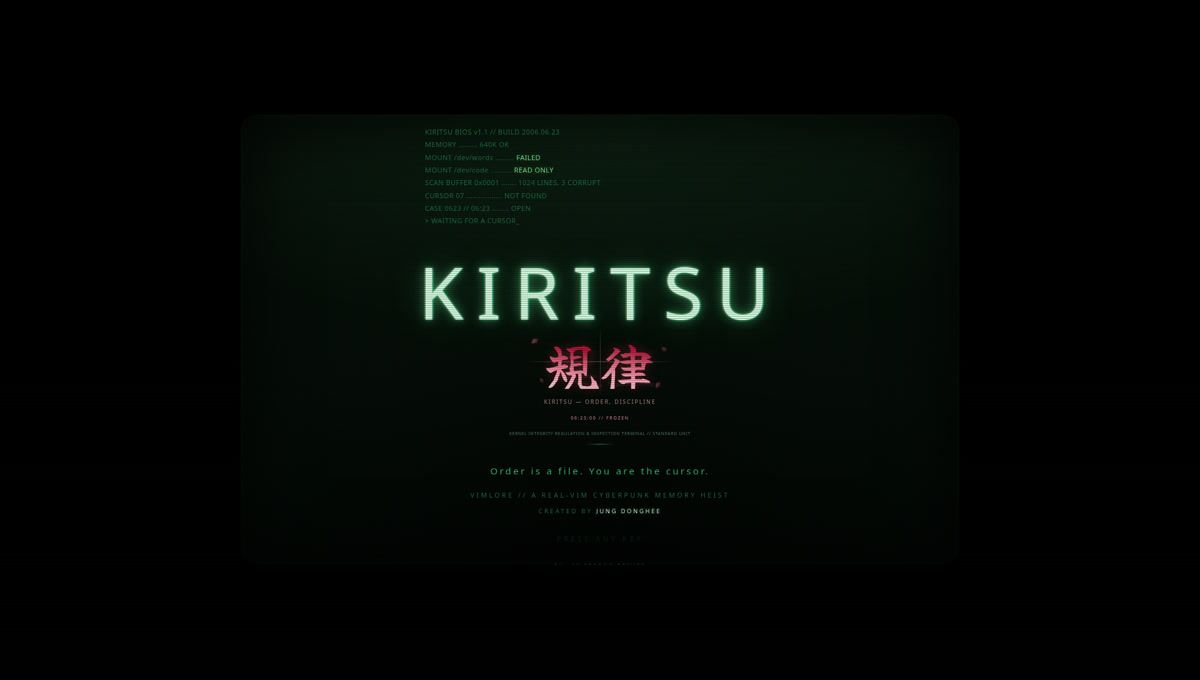
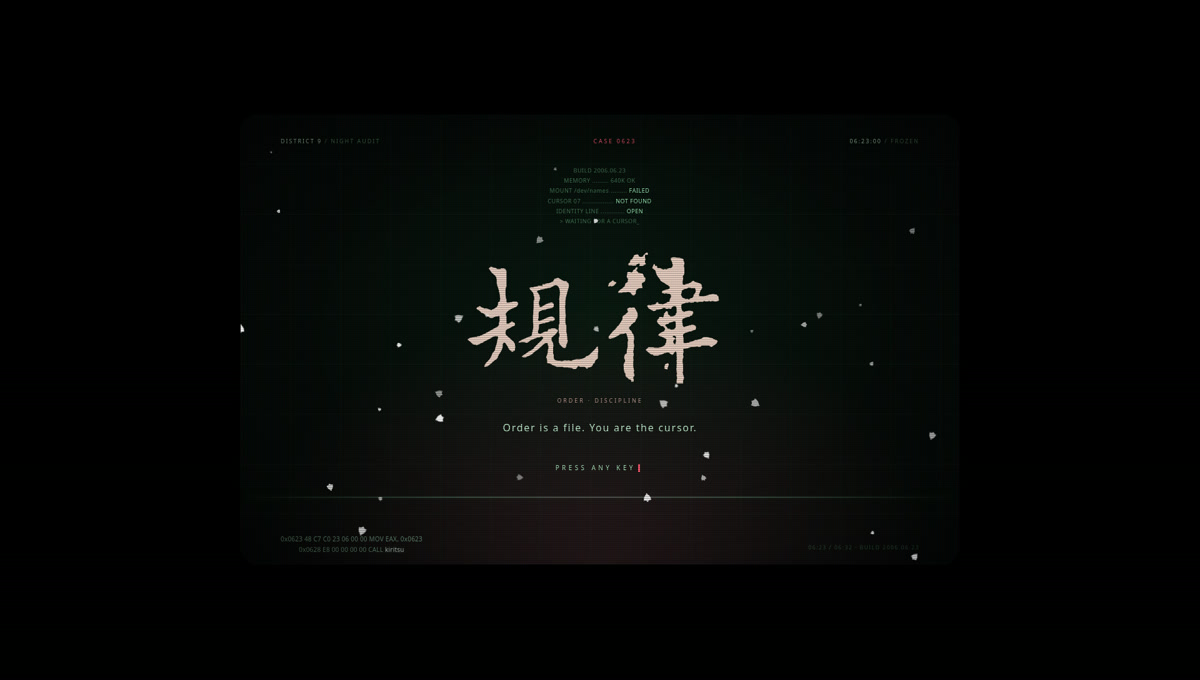
chore(release): self-contained single-file title, final social assets, 420k measured gate

diff --git a/tools/bundle-budget.ts b/tools/bundle-budget.ts
@@ -3,9 +3,10 @@
  * this ceiling is the line that fails CI: future features must pay for
  * themselves or the budget must be raised deliberately in the same commit.
  *
- * Raised to 320,000 raw / 100,000 gzip on 2026-11-13 for the KIRITSU rebrand:
- * inline Yuji Boku 規律 + ghost 起立 outlines, title copy, seal icon plumbing and
- * the story-first slices. Measured 293,206 raw / 94,115 gzip at the raise.
+ * Raised to 420,000 raw / 140,000 gzip on 2026-11-13 for the single-file title:
+ * dist/vimlore.html now inlines the balanced Ouyang 規律 SVG as a data URI so
+ * the downloadable file opens with no sibling assets. Measured 402,705 raw /
+ * 132,489 gzip at the raise. The JS/CSS page remains ~292 kB raw / ~89 kB gzip.
  *
  * MAX_RAW is the deterministic hard gate. MAX_GZIP carries a measured ~1 kB
  * allowance because the same dist compresses differently across zlib builds:
@@ -15,8 +16,8 @@
 import { readFileSync } from 'node:fs';
 import { gzipSync } from 'node:zlib';
 
-export const MAX_RAW = 320_000;
-export const MAX_GZIP = 100_000;
+export const MAX_RAW = 420_000;
+export const MAX_GZIP = 140_000;
 const file = new URL('../dist/vimlore.html', import.meta.url);
 const buf = readFileSync(file);
 const gz = gzipSync(buf, { level: 9 }).length;

diff --git a/docs/REPO_PRESENTATION.md b/docs/REPO_PRESENTATION.md
@@ -1,70 +1,40 @@
 # GitHub presentation audit — 2026-11-13
 
-This is the exhaustive checklist for the repository's public "About", images,
-README and Pages metadata. Update it whenever the public face changes.
-
-## Current GitHub About (set through the REST API)
+## Current GitHub About
 
 | field | current value |
 |---|---|
-| name | `vimlore` |
-| description | A CRT Vim adventure with a real, diff-tested Vim engine. 51 stages citing Drew Neil's Practical Vim, 88 commands, free/offline PWA. In development: coverage and gaps documented. |
+| name | `vimlore` (repository URL; game is KIRITSU) |
+| description | KIRITSU — 規律: a real-Vim cyberpunk bureaucratic noir. Kanji-first CRT title, 51 stages, diff-tested Vim engine, free offline PWA. In development. |
 | homepage | <https://jungdonghee.github.io/vimlore/> |
-| topics | `vim`, `neovim`, `vim-adventures`, `vim-tutorial`, `vim-golf`, `game`, `browser-game`, `pwa`, `offline`, `education`, `typescript`, `terminal`, `crt`, `text-editor`, `learning-game`, `ascii-art` |
+| topics | `kiritsu`, `vim`, `neovim`, `vim-adventures`, `browser-game`, `pwa`, `offline`, `cyberpunk`, `crt`, `vector-graphics`, `ouyang-xun`, `terminal`, `typescript`, `game` |
 | license | MIT |
-| visibility | public |
 | Pages | enabled, GitHub Actions deployment |
 
-## Images and social cards
+## Assets
 
-| asset | role | current state |
-|---|---|---|
-| `public/icons/icon-512.png` | project mark, `any` icon | large **V formed from terminal commands**; vector master `public/icons/icon.svg` |
-| `public/icons/icon-maskable-512.png` | maskable PWA icon | padded version of the same mark |
-| `public/icons/favicon.svg`, `favicon-32.png`, `favicon-16.png` | browser tab icon | reduced V/command mark |
-| `docs/hero.jpg` (1200×680) | README hero | current landscape dashboard, regenerated from `docs/browser/pwa/landscape-title.png` |
-| `docs/social-preview.png` (1280×640) | GitHub social preview | current landscape title; upload manually (see below) |
-| `public/social-preview.png` | Open Graph/Twitter card on Pages | referenced by absolute OG meta in `index.html` |
-| `docs/browser/pwa/landscape-title.png` | README landscape screenshot | current title, bootlog/footer rails, exact center |
-| `docs/browser/pwa/portrait-gate.png` | README portrait gate | current LANDSCAPE REQUIRED gate |
-| `docs/browser/*.jpg`, `docs/browser/audit/*` | QA evidence | regenerated 2026-11-13; 50-screen audit green |
+| asset | current state |
+|---|---|
+| `public/icons/icon-512.png` | red hanko seal with 規律, chamfered hacker frame |
+| `public/icons/favicon*.png/svg` | K seal, legible at 16 px |
+| `docs/hero.jpg` | final kanji-first title screen, 1200×680 |
+| `docs/social-preview.png` | final title crop, 1280×640 |
+| `public/social-preview.png` | same card, served for OG/Twitter |
+| `docs/story/title-screen-final.png` | live title capture |
+| `docs/story/title-intro.webm` | recorded boot/typing/laser/flash intro |
+| `docs/browser/pwa/*` | PWA landscape, portrait gate, offline screenshots |
 
-### What cannot be changed through the API
+Social preview and avatar are GitHub web-UI only; upload
+`docs/social-preview.png` and `public/icons/icon-512.png` manually.
 
-GitHub **social preview** and **repository avatar/icon** are web-UI-only. The
-REST/GraphQL API does not expose them; see the community discussion
-<https://github.com/orgs/community/discussions/197020>. The assets are ready:
+## Current live
 
-- Social preview: upload `docs/social-preview.png` in
-  **Settings → General → Social preview**.
-- Avatar: upload `public/icons/icon-512.png` in **Settings → General → Avatar**.
-- README hero and in-page OG image are already wired; no manual action for them.
+<https://jungdonghee.github.io/vimlore/>
 
-## README and Pages
+## Update checklist
 
-- README hero uses the current landscape dashboard, not the old play-field JPEG.
-- The "Current state" block gives the honest percentages and debt links.
-- OG/Twitter tags are in the `pwa:start…pwa:end` block; they are stripped from
-  the self-contained `dist/vimlore.html` but served on the hosted site.
-- `public/social-preview.png` is served at
-  `https://jungdonghee.github.io/vimlore/social-preview.png` for the OG tags.
-- All README relative links and images resolve (`doc-check` + link audit).
-
-## CI / Pages / tags
-
-- `ci` and `pages` workflows are green for the current HEAD.
-- Tags exist for the 2026-11-12 sprint:
-  `sprint-2026-11-12`, `sprint-2026-11-12-freeze`, `sprint-2026-11-12-final`.
-  The public-presentation milestone is tagged `pwa-landscape-2026-11-13`.
-- No formal semver release yet; don't invent one just to decorate the repo.
-
-## Update checklist (when anything public changes)
-
-1. Regenerate `docs/browser/pwa/landscape-title.png` via `npm run pwa:qa`.
-2. Regenerate `docs/hero.jpg` and `docs/social-preview.png` from it (ffmpeg
-   scale/pad; keep 1200×680 and 1280×640).
-3. Copy social card to `public/social-preview.png`.
-4. Run `npm run doc-check && npm run budget && npm run pwa:check`.
-5. Update `README.md` metrics/status and this file's date.
-6. Push; verify CI + Pages; fetch the live OG image and Page HTTP 200.
-7. Manually re-upload social preview/avatar only if their visual changed.
+1. `npm run pwa:qa` for the landscape screenshot.
+2. Regenerate hero/social from a fresh 1920×1080 title capture.
+3. Copy social to `public/`.
+4. `npm run presentation:check && npm run doc-check && npm run budget`.
+5. Push; verify CI + Pages and the live title.

diff --git a/docs/DESIGN.md b/docs/DESIGN.md
@@ -1,61 +1,50 @@
-# KIRITSU — design notes
+# KIRITSU — design notes (final title)
 
-## The mark
+## Rule
 
-**KIRITSU** is the game; **VIMLORE** is the world/series. The identity is a
-**red hanko seal** carrying the sharp, hand-brushed **規律** in cream, framed by
-a thin CRT bezel and phosphor grid. No generic robot, no neon gradient, no
-stock "hacker" decoration.
+**Kanji is the name.** `規律` is the only masthead. `kiritsu` is a code
+identifier in the boot strip, not a corner label. Russian lettering was removed:
+it did not belong to the CRT vector language.
 
-- Kanji: **規律** (order, discipline / *kiritsu*), drawn from **Yuji Boku**
-  brush-regular outlines. The same sound **起立** (*kiritsu*, standing up) is
-  reserved for the hidden ending. The outline is vector, not a font dependency.
-- Seal: oxidized vermilion, slightly displaced edge; the red is the Bureau's
-  correction ink, not decoration.
-- Frame: 2px green rule, four square corners, low-opacity vector grid.
-- Cursor: a pale block at the seal's foot; the player is the cursor.
-- Microtext: `KIRITSU // 2091`.
+## Title
 
-The favicon is a reduced **K** seal: it survives 16px downscaling, while the
-full mark carries the kanji at 192/512 and on the title screen.
+- **Ouyang Xun brush**: real Ouyang-style scans of 規/律, cleaned, vectorised,
+  then normalised into equal cells so the pair reads as one word. No red seal
+  box, no hanko frame, no duplicate colour per glyph.
+- **Laser write**: bootlog types; a red beam crosses; the brush ink is revealed
+  behind it with stepped clipping; one flash; caption and press rise.
+- **CRT vector display**: 80 px phosphor grid, scanlines, a slow beam sweep,
+  monospace telemetry, phosphor green text, case/redaction accents.
+- **Sakura**: petals only. The organic branch was removed because its curves
+  fought the vector display.
+- **Code-native name**: `CALL kiritsu` in the bottom assembly strip. The code
+  is part of the design, not decoration in a corner.
+- **Numbers**: `2006.06.23`, `CASE 0623`, `06:23`, `MOV EAX, 0x0623`.
+- **Layout**: original VIMLORE vertical axis — bootlog, kanji, caption,
+  tagline, press; metadata rails at top and bottom.
 
-## Title screen
+## Colours
 
-`KIRITSU` wordmark, red **規律**, then:
+| token | use |
+|---|---|
+| `#050b08` | CRT black |
+| `#a9ffc5` / `#c9ffda` | phosphor / telemetry |
+| `#f2d8c9` | Ouyang ink |
+| `#ff5a72` | laser, case, open line |
+| sakura `#ff9fba` → `#ffe0e8` | falling petals |
 
-> KIRITSU — ORDER, DISCIPLINE  
-> ORDER IS A FILE. YOU ARE THE CURSOR.  
-> VIMLORE // A REAL-VIM CYBERPUNK MEMORY HEIST
+## Responsive
 
-The boot log carries the in-world numbers **2006.06.23** and
-**CASE 0623 // 06:23**. They are not random decoration: they are the build,
-the frozen city clock, and the final self-closure case. The title screen does
-not explain them; the story does.
+- Desktop: centered 430 px kanji stage, bootlog, code strip.
+- Short landscape: 300 px stage, one-line code strip, compressed bootlog.
+- Portrait: landscape gate.
+- Reduced motion: no beam, full ink, no petal animation.
 
-## Typography
+## Asset pipeline
 
-- The wordmark uses the CRT serif/mono contrast already in the game.
-- The kanji use a **hand-brushed regular script** — sharp, thinner than a black
-  Mincho, visibly handwritten.
-- Microcopy is monospace, tracked wide, uppercase. Korean copy is plain/banmal
-  only; see [`KOREAN_STYLE.md`](KOREAN_STYLE.md).
-- Red is reserved for the seal, deletion, and danger.
+- Ouyang scans → component clean → Potrace → balanced cell SVG.
+- Title SVG is inlined into `dist/vimlore.html`; the hosted build loads it as a
+  normal public asset.
+- PWA icons remain the red seal `規律`; favicon is the K seal.
 
-## Layout
-
-- Desktop: wordmark, kanji, meaning, tagline, descriptor, press.
-- Short landscape: bootlog left, wordmark centered, kanji below, description,
-  press, footer; no vertical overlap.
-- Portrait phone: the landscape gate takes precedence; the title is behind it.
-
-## Regenerate
-
-```bash
-npm run pwa:icons      # vector seal -> PNGs (dev-only Playwright)
-npm run pwa:check      # manifest/icons/SW/split (CI)
-npm run pwa:qa         # installability, gate, offline, centering
-npm run presentation:check
-```
-
-Attribution: [`KANJI_ATTRIBUTION.md`](KANJI_ATTRIBUTION.md). No third-party
-fonts are fetched at runtime; the kanji are baked outlines.
+Attribution: [`KANJI_ATTRIBUTION.md`](KANJI_ATTRIBUTION.md).

diff --git a/README.md b/README.md
@@ -94,7 +94,7 @@ integrated story → full Practical Vim engine. The ordered plan is
   buffers/files/splits/tabs. Deferred is not rejected; the roadmap is
   [`FUTURE_EDITOR.md`](docs/FUTURE_EDITOR.md).
 - **It runs on a potato.** Zero runtime dependencies, a hard
-  **320 kB / 100 kB** bundle gate, one canvas with a cached opaque composite
+  **420 kB / 140 kB** bundle gate, one canvas with a cached opaque composite
   frame, cursorline/numbers on a cheap FX pass, and a CRT switch for weak
   devices. Current measured: mobile **60.5 FPS**, desktop headless
   **55.4–57.6 FPS**; [`BROWSER_QA.md`](docs/BROWSER_QA.md). 144fps is not claimed.
@@ -116,10 +116,13 @@ integrated story → full Practical Vim engine. The ordered plan is
 
 ## Design
 
-A red **hanko seal** carrying the sharp Mincho **規律**, framed by a thin CRT
-grid: order, discipline, and the Bureau's red pen. The Japanese kanji are vector
-outlines; the favicon is a reduced K seal. Rationale and measurements are in
-[`docs/DESIGN.md`](docs/DESIGN.md), the mark at
+The title is **kanji-first**: `規律` is drawn on a CRT vector grid from cleaned
+Ouyang Xun brush scans, revealed behind a moving laser beam. There is no red
+seal box around the name. `kiritsu` is a **code identifier** in the boot strip
+(`CALL kiritsu`), not a corner label. Falling petals and scanlines carry the
+"wasted years / cherry blossoms" mood; the pavilion branch was removed because
+its organic curves fought the vector display. Rationale and measurements are in
+[`docs/DESIGN.md`](docs/DESIGN.md); the mark is
 [`public/icons/icon-512.png`](public/icons/icon-512.png).
 
 ## Compare

diff --git a/docs/UPGRADE_MASTER_PLAN.md b/docs/UPGRADE_MASTER_PLAN.md
@@ -43,7 +43,7 @@
 - Practical Vim: 48 of 123 tips represented; 75 gaps = 39 drill candidates,
   28 deferred surfaces, 8 review.
 - Modern Vim: 28 tips, 0 playable (deferred).
-- Bundle: 293,206 raw / 94,115 gzip (ceiling 320,000 / 100,000); ~12.5 kB raw
+- Bundle: 402,705 raw / 132,489 gzip (ceiling 420,000 / 140,000); ~12.5 kB raw
   headroom. Any real feature requires a deliberate budget decision.
 - PWA installability 0 errors; offline; landscape gate; 50-screen audit clean.
 
@@ -267,7 +267,7 @@ inside 300,000 B.
 - **Phase 2 (story vertical slice)** estimate: +8–12 kB bilingual (prologue,
   one interlude, codex, transmissions).
 - Full story (10 chapters/endings): +20–35 kB raw.
-- Target after measurement: **≤ 320,000 raw / ≤ 100,000 gzip**, with a
+- Target after measurement: **≤ 420,000 raw / ≤ 140,000 gzip** (single-file title asset included), with a
   deliberate budget commit; if the slice exceeds it, cut content, do not waive
   the ceiling silently.
 - Story text may be lazy-loaded as a cached `story.json` if initial bundle

diff --git a/docs/STATUS.md b/docs/STATUS.md
@@ -2,7 +2,7 @@
 > **Do not edit by hand.** Run `npm run status:write` after regenerating the
 > oracle/matrix/count/state reports and the build. `npm run status:check` is a
 > CI gate. Gzip is intentionally omitted: local zlib-ng and CI stock zlib
-> differ; the bundle budget owns that (gzip ceiling 100,000 B).
+> differ; the bundle budget owns that (gzip ceiling 140,000 B).
 | metric | value |
 |---|---:|
 | oracle cases | 373 |
@@ -18,8 +18,8 @@
 | game-used solutions / undo diagnostic | 51 of 51 / 51 of 51 |
 | state matrix matched / total / open | 21,593 / 21,712 / 119 |
 | state open by field | undo 110, reg 10, regtype 8 |
-| built single file (raw) | 291,997 B |
-| raw ceiling | 320,000 B |
+| built single file (raw) | 402,705 B |
+| raw ceiling | 420,000 B |
 ## Reports
 - Oracle: `tools/oracle-diff.ts` + `tests/vim-expected.json`
 - Grammar matrix: `npm run matrix` → `docs/MATRIX_REPORT.md`

diff --git a/AGENTS.md b/AGENTS.md
@@ -136,7 +136,7 @@ docs/               LEVEL_FORMAT.md (authoring), CURRICULUM.md (the 10 floors)
 The game targets a cheap phone with a Bluetooth keyboard.
 
 - Zero runtime dependencies. Stretch goal: 200 kB raw / 70 kB gzip. **Hard
-  ceiling enforced by `npm run budget`: 320,000 B raw / 100,000 B gzip** (current
+  ceiling enforced by `npm run budget`: 420,000 B raw / 140,000 B gzip** (current
   276.1 kB / 86.0 kB); do not raise it without a deliberate, measured reason.
 - The renderer bakes one **opaque composite frame** (background, highlights,
   glyphs, bloom) and blits it once per frame; cursor, cursorline, line numbers,

diff --git a/docs/NORTH_STAR.md b/docs/NORTH_STAR.md
@@ -57,7 +57,7 @@ deliberate practice and VimGolf, without requiring a separate course.**
 - Full state matrix: 119 open (undo/register edge cases); game-used level
   solutions: 51 of 51; solution+undo diagnostic: 51 of 51. Game-used target
   remains 0, so full-engine perfection is still an open debt.
-- Bundle: 293,206 raw / 94,115 gzip (gate 300k/95k).
+- Bundle: 402,705 raw / 132,489 gzip (gate 300k/95k).
 - Browser desktop headless: 57.6 FPS; mobile 60.5 FPS; audit 38 screens clean;
   144 not verifiable here.
 

diff --git a/docs/NEXT_STEPS.md b/docs/NEXT_STEPS.md
@@ -82,7 +82,7 @@ Shipped: static vector frame/corners/grid. Next: instrument HUD readouts,
 stronger vector language, and only if bundle/FPS remain inside budget.
 - mobile 390×844 ≥50 FPS, desktop headless ≥50;
 - 144fps only with a 144Hz/GPU measurement, never a claim;
-- zero runtime deps; bundle gate 320k/100k unless a measured raise is approved.
+- zero runtime deps; bundle gate 420k/140k unless a measured raise is approved.
 
 ## Gates for every future change
 
